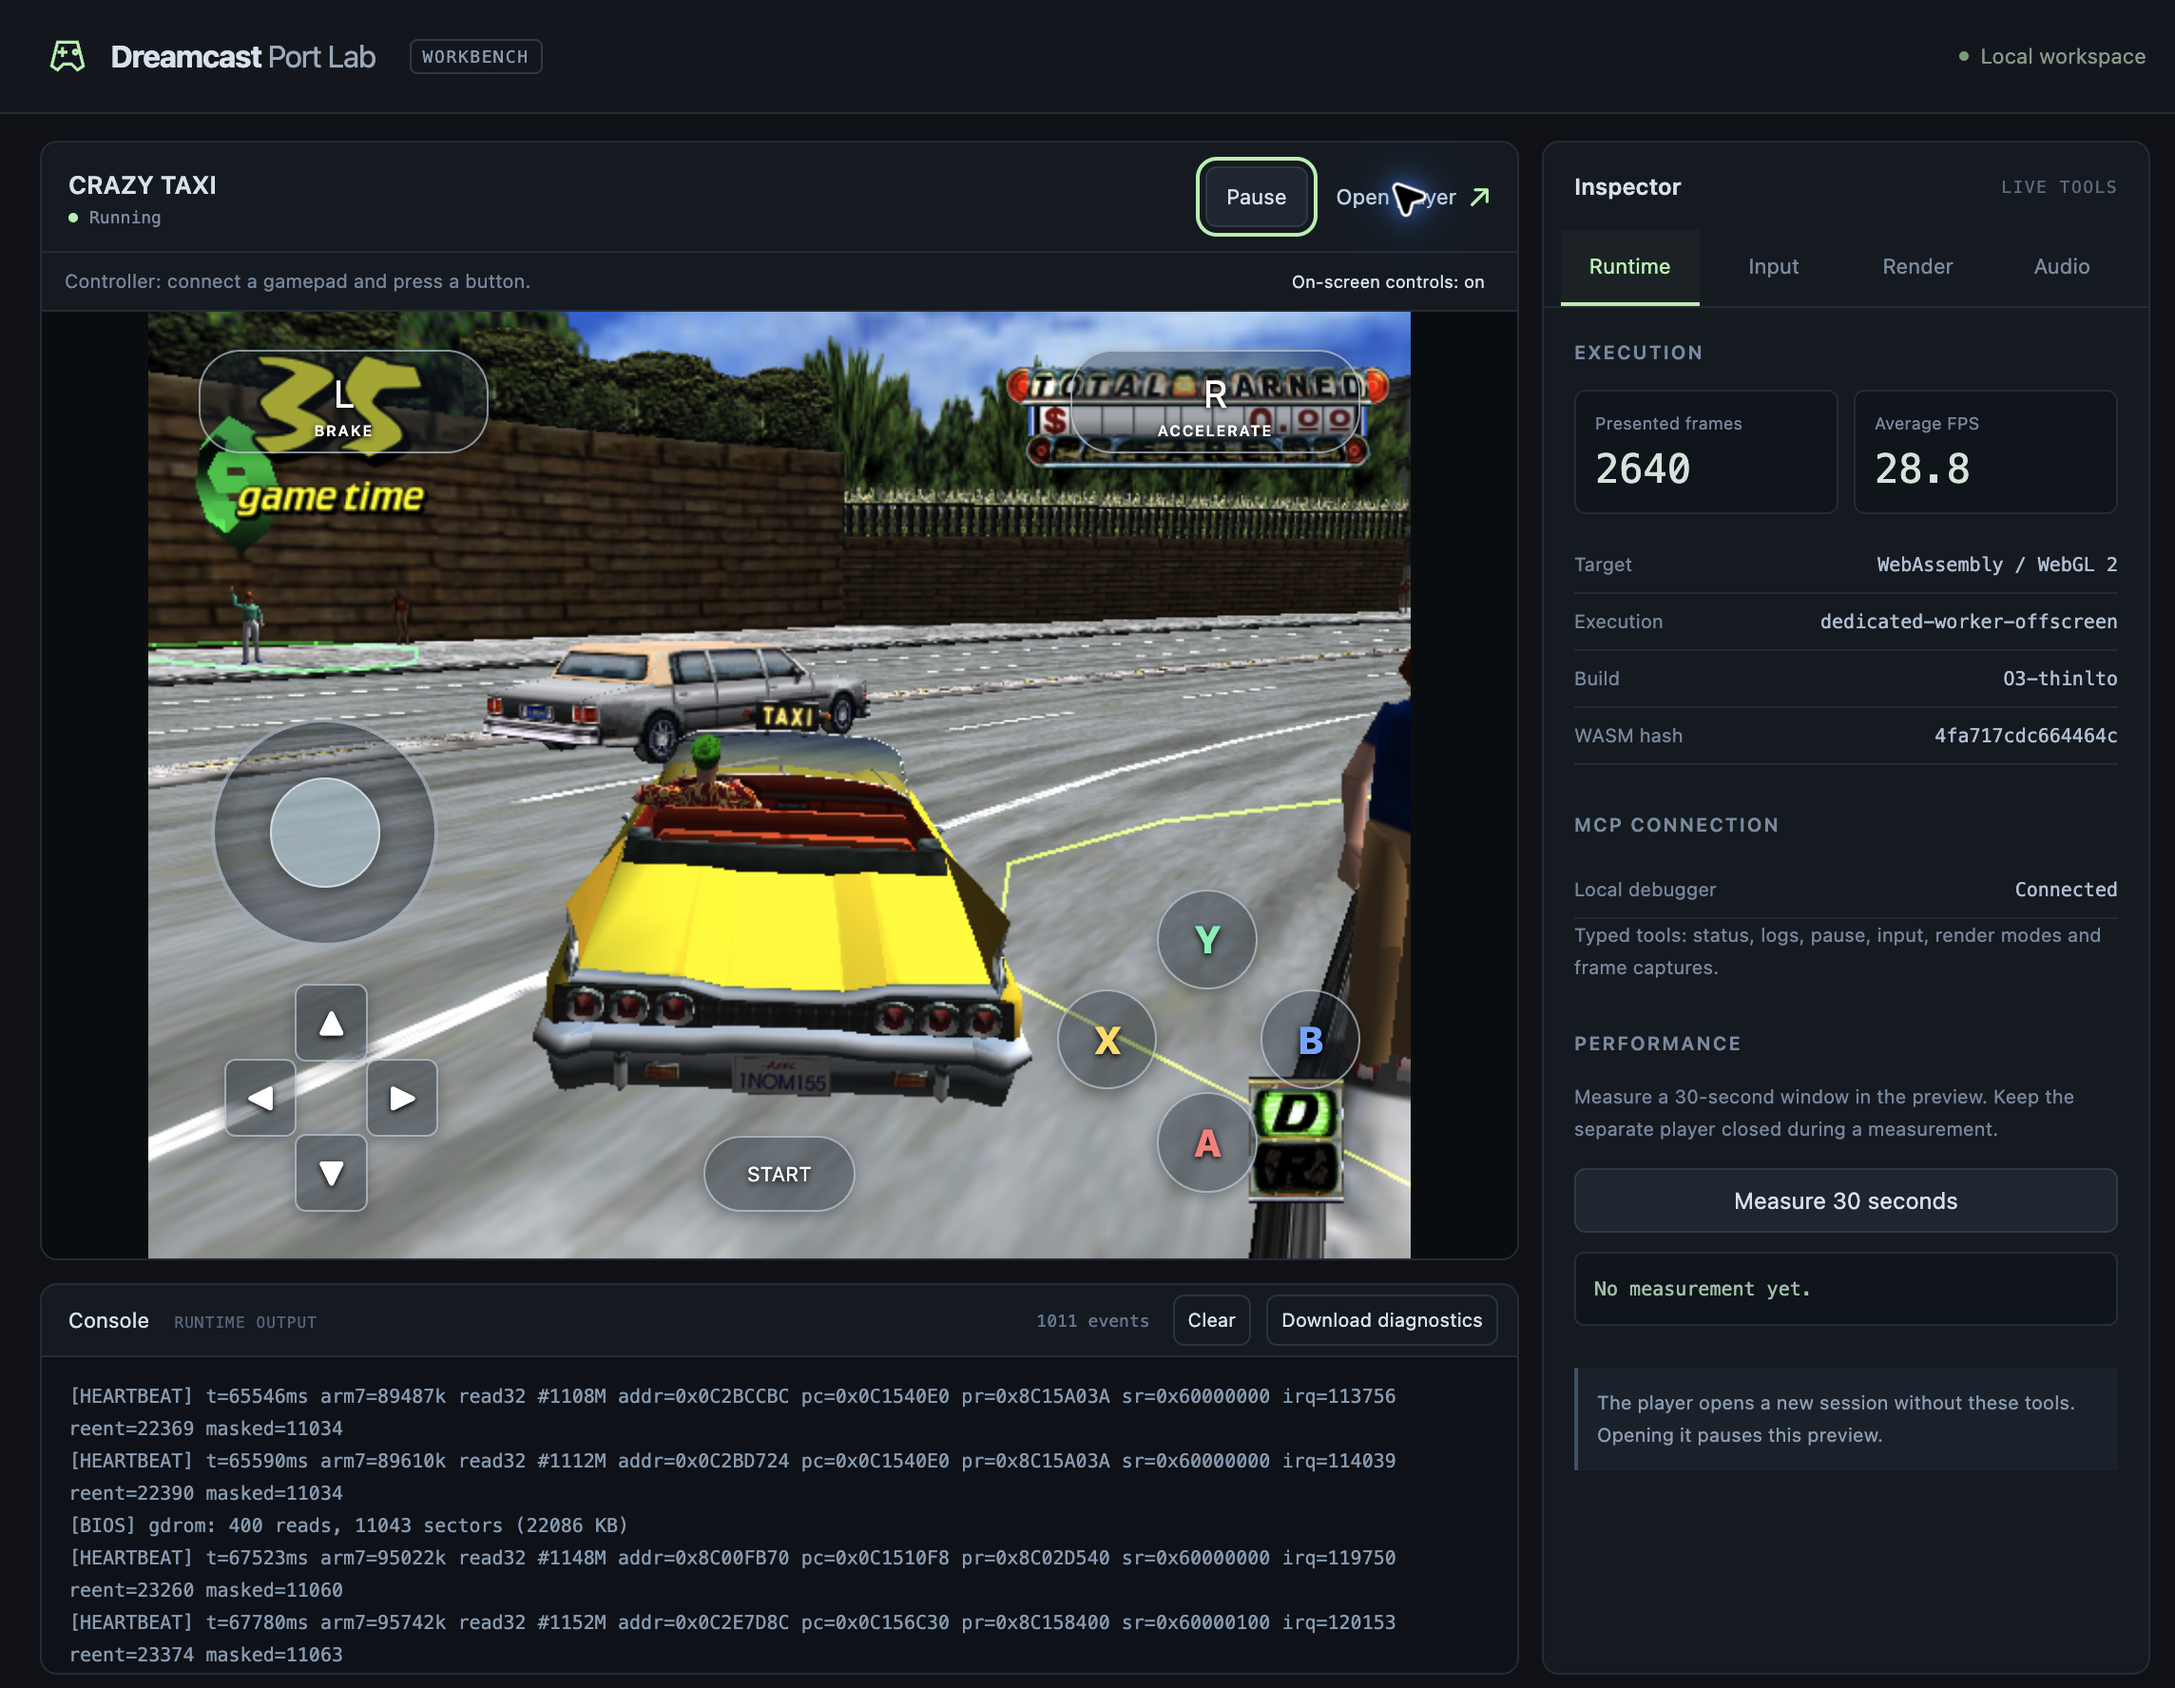
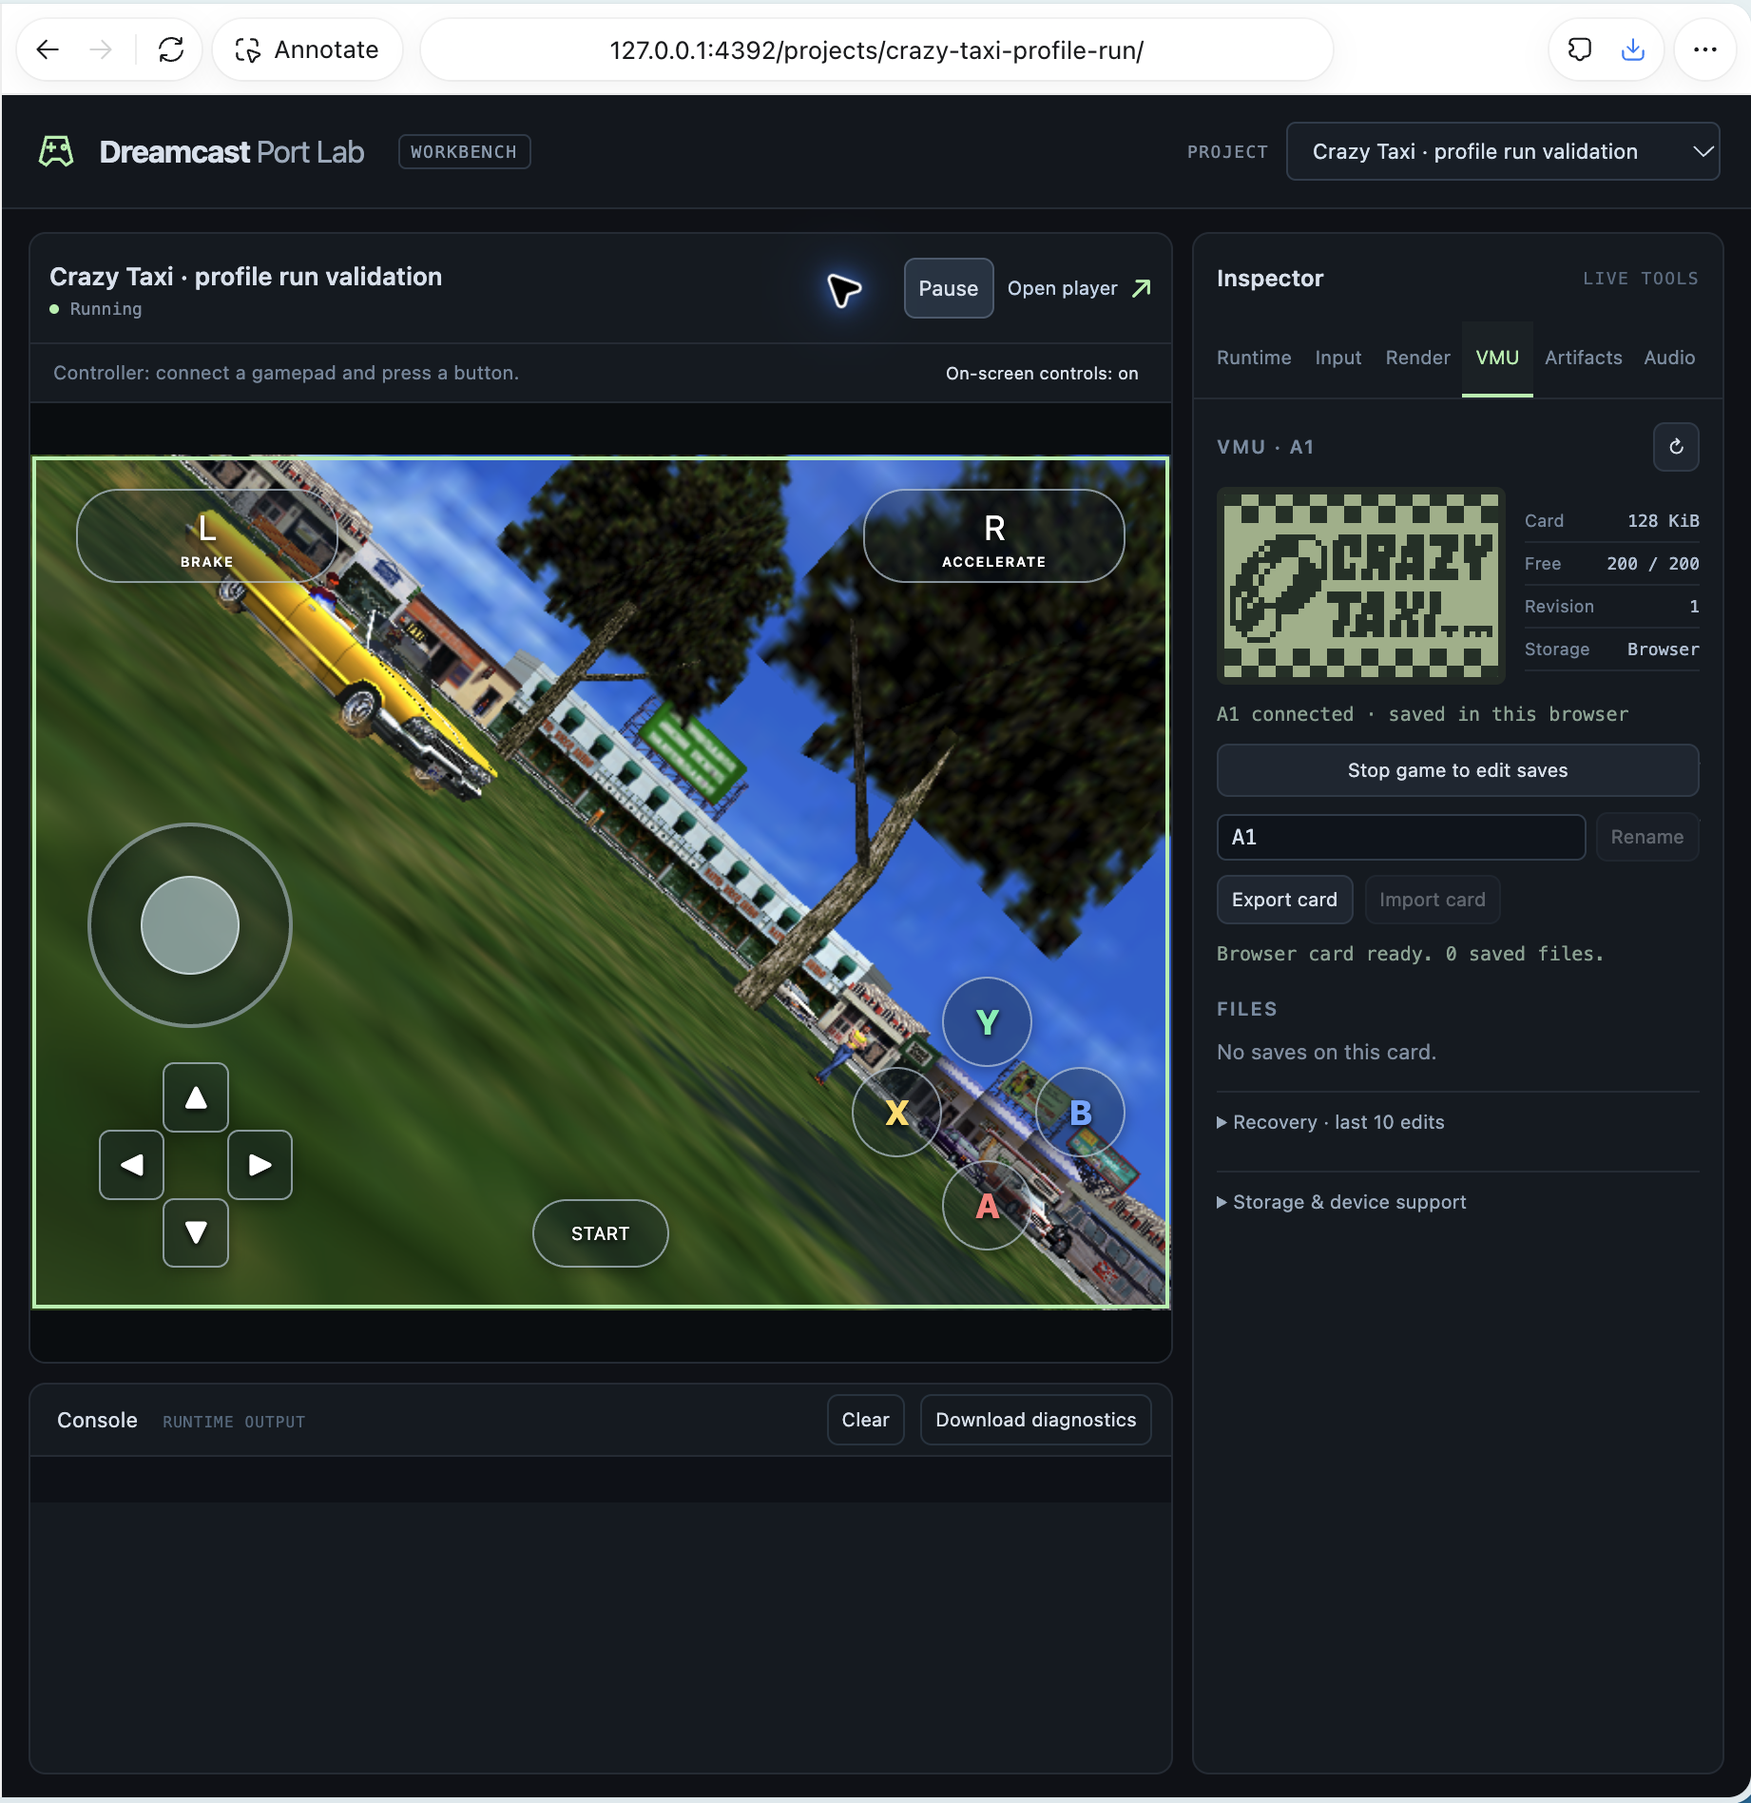
docs: refresh workbench screenshot with VMU inspector

diff --git a/README.md b/README.md
@@ -11,7 +11,7 @@ used for diagnostics.
 The player requires a modern browser with WebGL 2, WebAssembly, Web Workers and
 WebGL OffscreenCanvas support.
 
-![Dreamcast Port Lab workbench: game preview, inspector and runtime console](docs/images/workbench.png)
+![Dreamcast Port Lab workbench with project selection, Crazy Taxi preview, VMU inspector and runtime console](docs/images/workbench.png)
 
 ## Port Lab
 
